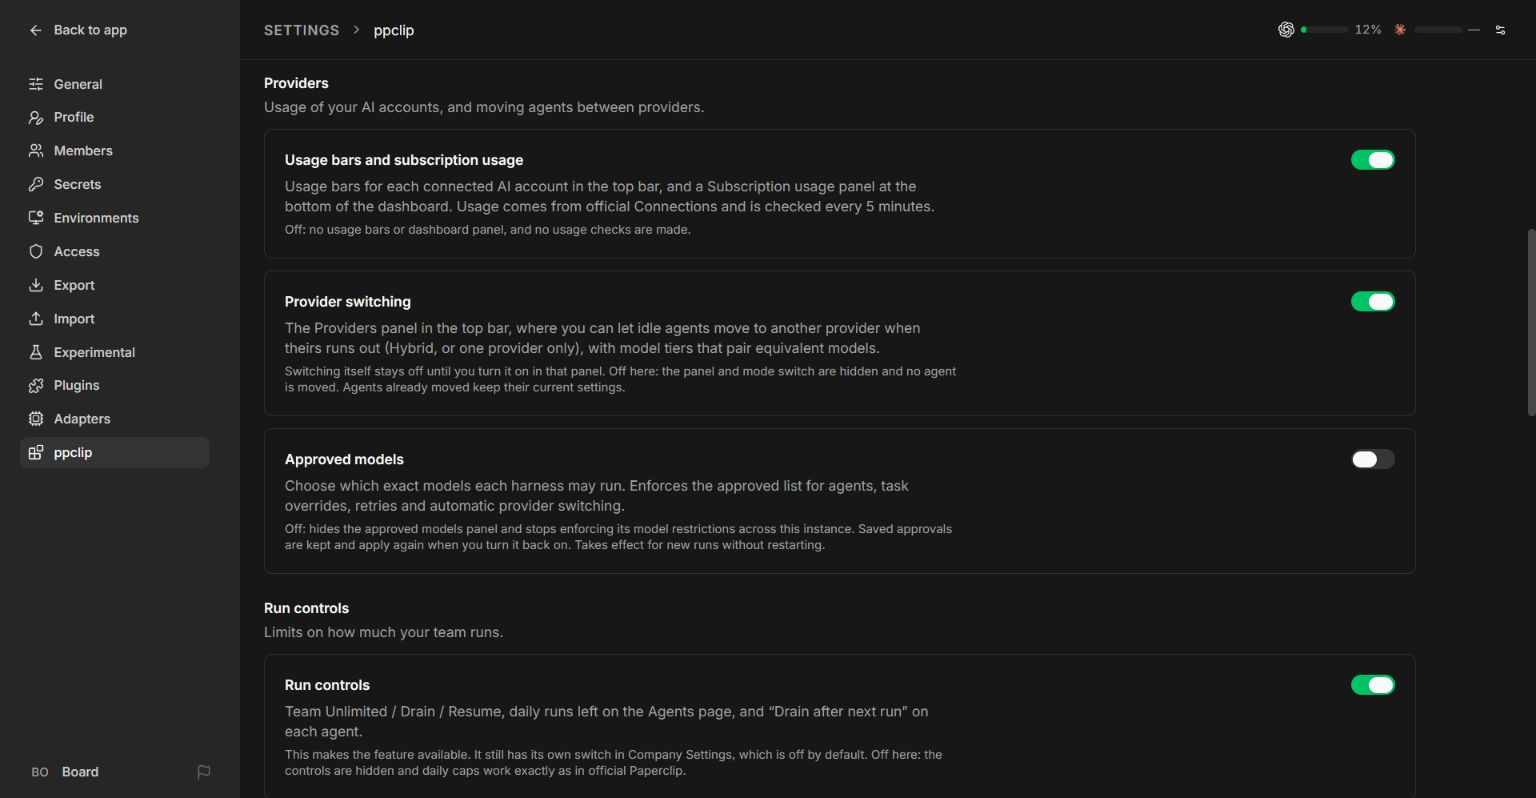
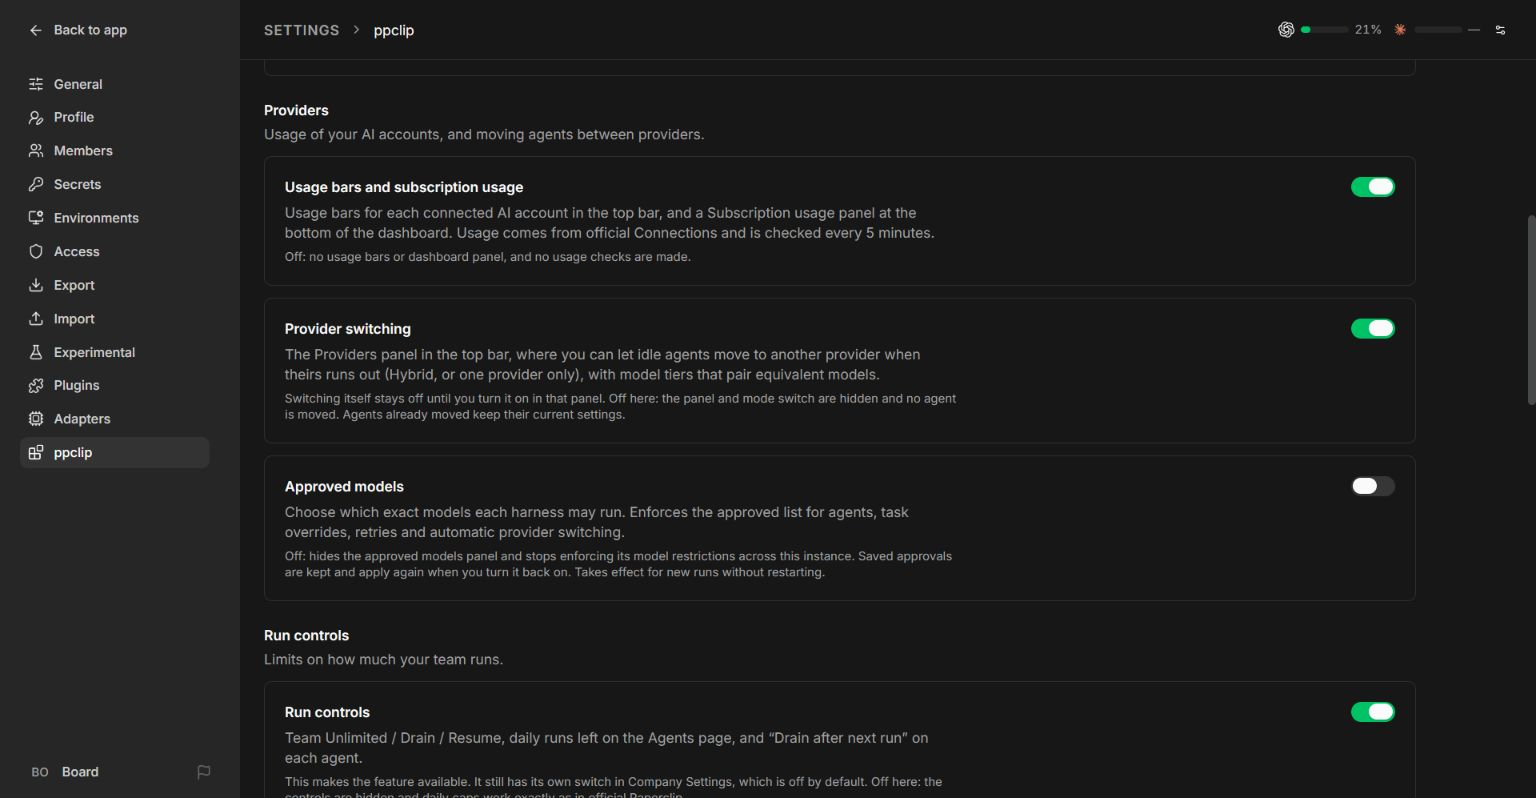
Refresh ppclip module settings screenshot

diff --git a/docs/images/README.md b/docs/images/README.md
@@ -6,7 +6,7 @@ These are real UI captures from a local ppclip installation on 2026-10-18, using
 |---|---|
 | `team.jpg` | Team canvas fitted to all seven agents, showing four reporting relationships, role colours and aligned action buttons. |
 | `computer.jpg` | Connected Live screen page with the simplified header, human-control state and expiry, and Chromium showing Google's signed-out home page. |
-| `modules.jpg` | Settings → ppclip, scrolled to Providers. Approved models is disabled in this instance; the module defaults to on. |
+| `modules.jpg` | Refreshed Settings → ppclip with the current settings sidebar and module cards, scrolled to Providers and Run controls. Approved models is disabled in this instance; the module defaults to on. |
 | `updates.jpg` | Settings → ppclip, showing compact update status and collapsed diagnostics. The revision and cached check result reflect the capture. |
 
 The screenshots contain no account email addresses, credentials, or private chat messages. Company and agent labels reflect this local installation. Images are viewport captures, without browser chrome or image-generated content.
